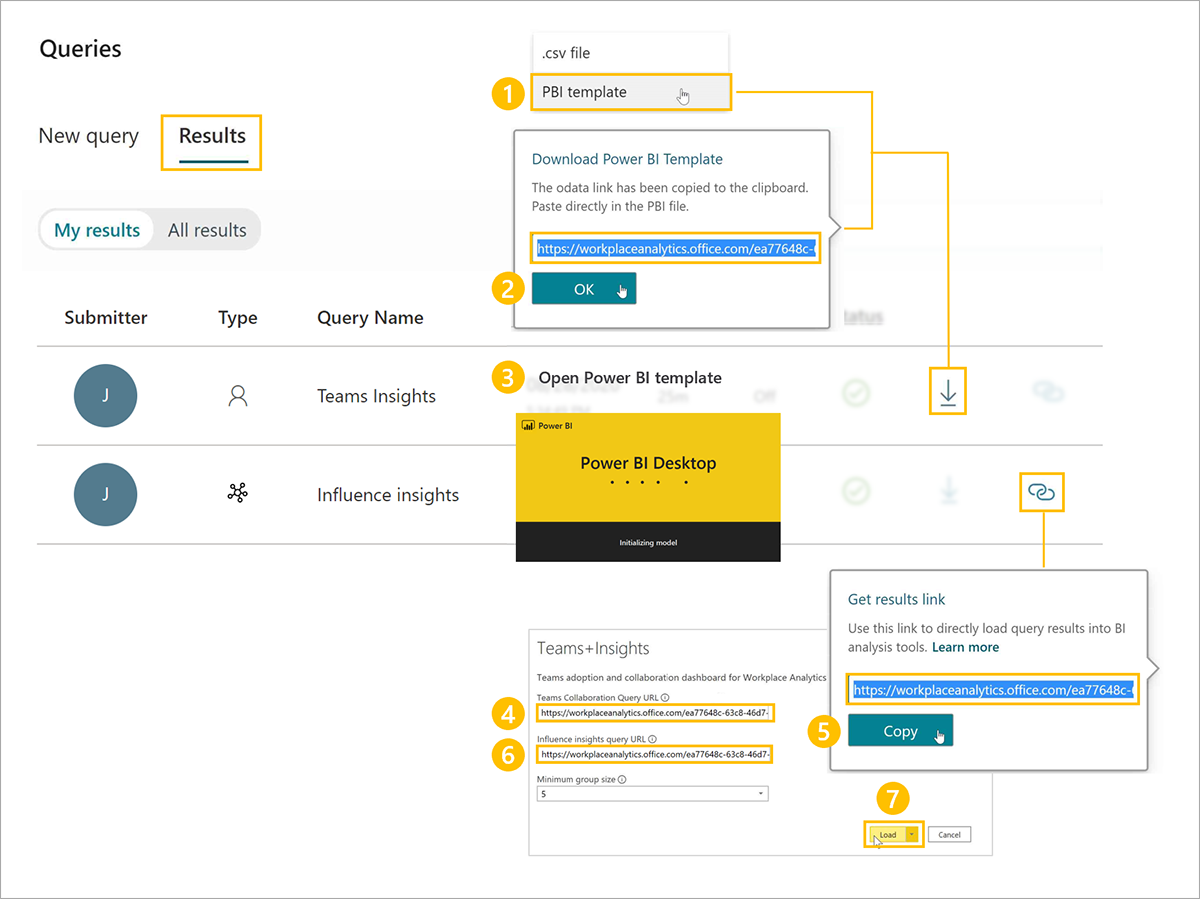
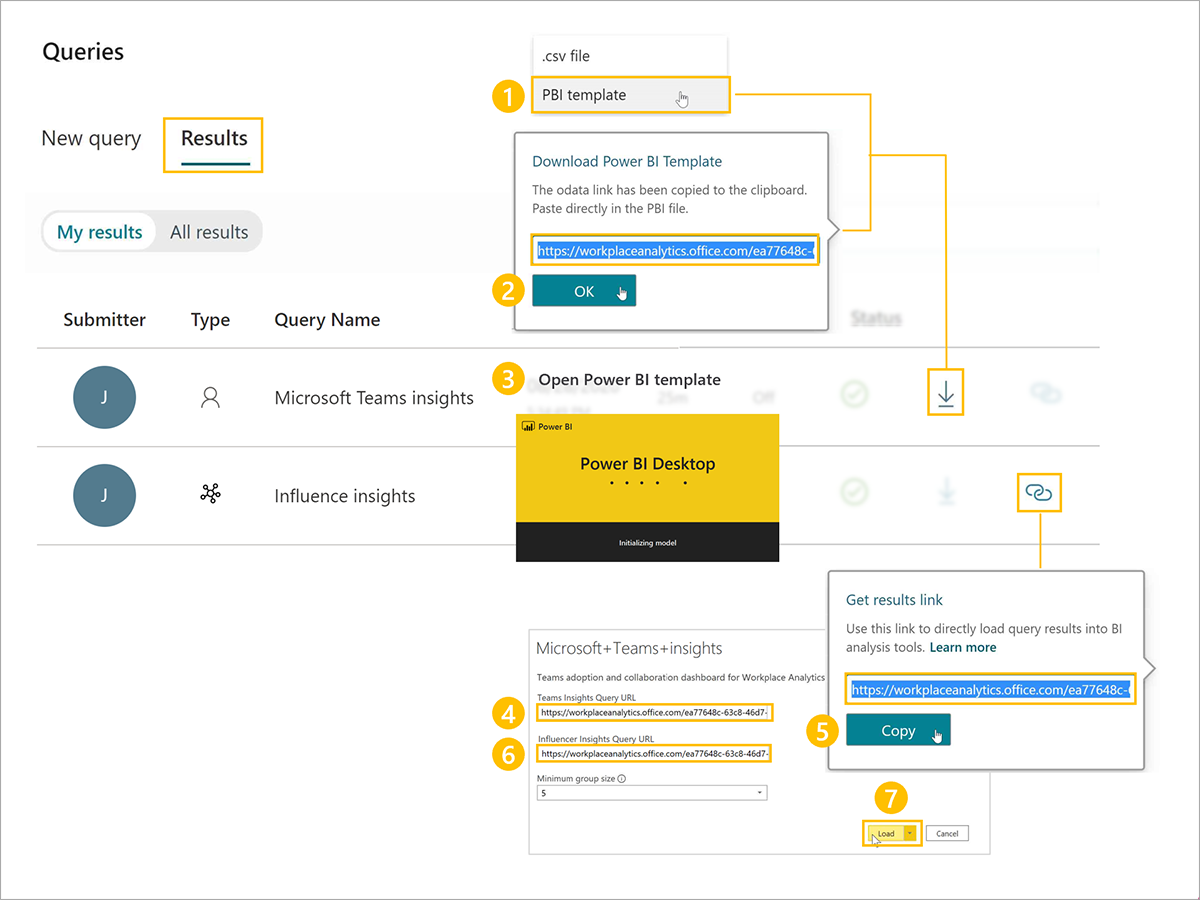
Update Teams insights to Microsoft Teams insights

diff --git a/learn-m365-pr/m365/workplace-analytics-teams-insights/includes/setup.md b/learn-m365-pr/m365/workplace-analytics-teams-insights/includes/setup.md
@@ -1,4 +1,4 @@
-The Teams insights dashboard uses a prebuilt Power BI template populated by output (OData) from two Workplace Analytics queries, *Teams insights* and *Influence insights*. 
+The Microsoft Teams insights dashboard uses a prebuilt Power BI template populated by output (OData) from two Workplace Analytics queries, *Microsoft Teams insights* and *Influence insights*. 
 
 ![Teamscollaboration queries](../media/teams-collaboration-queries.png)
 
@@ -28,7 +28,7 @@ Some things to keep in mind when running the queries to populate the Teams insig
 - Under **Select metrics**, keep all preselected metrics, and don't delete any of them. The dashboard uses them to create the charts, graphs, and actionable data in the report pages. 
 - Under **Select filters**, if you'd like, filter using the attributes from the organizational data to further refine the population.
 - If you'll be filtering for a subset of the population, you'll need to edit all the preselected metrics in the Influencer insights query. If you want to view collaboration activity for Human Resources, you'll need to select the pencil icon and filter on **Organization = Human Resources** for each metric.
-- In the Teams insights query, under **Select Organizational attributes**, you can leave the default attributes, or add any other attributes. Be sure to select the attribute that identifies people managers in your organization. If you cannot find a manager indicator field in the dropdown menu, contact your Workplace Analytics Admin to confirm it was included in the data. 
+- In the Microsoft Teams insights query, under **Select Organizational attributes**, you can leave the default attributes, or add any other attributes. Be sure to select the attribute that identifies people managers in your organization. If you cannot find a manager indicator field in the dropdown menu, contact your Workplace Analytics Admin to confirm it was included in the data. 
 - In the Influence insights query, under **Select Organizational attributes**, leave the default attributes selected. Don't delete them as they're needed to populate meeting-related charts and graphs in the report pages.
 
 **2. Download the Teams Insights Power BI template and load the query output**. Once the queries have finished running, you can access the template and data via OData URL by clicking the **Results** tab on the Queries page. 
@@ -37,12 +37,12 @@ Some things to keep in mind when running the queries to populate the Teams insig
 
 To load the data into the Teams insights Power BI (PBI) template:
 
-1. Download the Power BI (PBI) template from the Teams insights result.
+1. Download the Power BI (PBI) template from the Microsoft Teams insights query result.
 2. When prompted to paste the OData link directly in the Power BI file, select **OK**.
 3. Open the downloaded Power BI template.
-4. Paste the Teams Insights OData link into the Teams Insights Query URL field.
-5. Return to your results in Workplace Analytics. In the Teams Insights query result, copy the OData link to the Teams Insights query output.
-6. Return to Power BI and paste the Influence Insights query OData link into the Influence Insights Query URL field.
+4. Paste the Teams insights OData link into the Teams insights Query URL field.
+5. Return to your results in Workplace Analytics. In the Influence insights query result, copy the OData link to the Influence insights query output.
+6. Return to Power BI and paste the Influence insights query OData link into the Influence insights Query URL field.
 7. Load the data.
 
 The dashboard visualizations on each page of the report will populate with Workplace Analytics data, starting with the Settings page. 
@@ -55,7 +55,7 @@ The dashboard visualizations on each page of the report will populate with Workp
 
 ![Select your settings](../media/options-settings.png)
 
-Once you've selected the settings for your population, you can start analyzing the results from the dashboard. The populated dashboard includes report pages on the state of adoption by group, how Teams is changing ways of working, and how to speed adoption using community influencers.
+After you've selected the settings for your population, you can start analyzing the results from the dashboard. The populated dashboard includes report pages on the state of adoption by group, how Teams is changing ways of working, and how to speed adoption by using community influencers.
 
 ## Learn more
 
